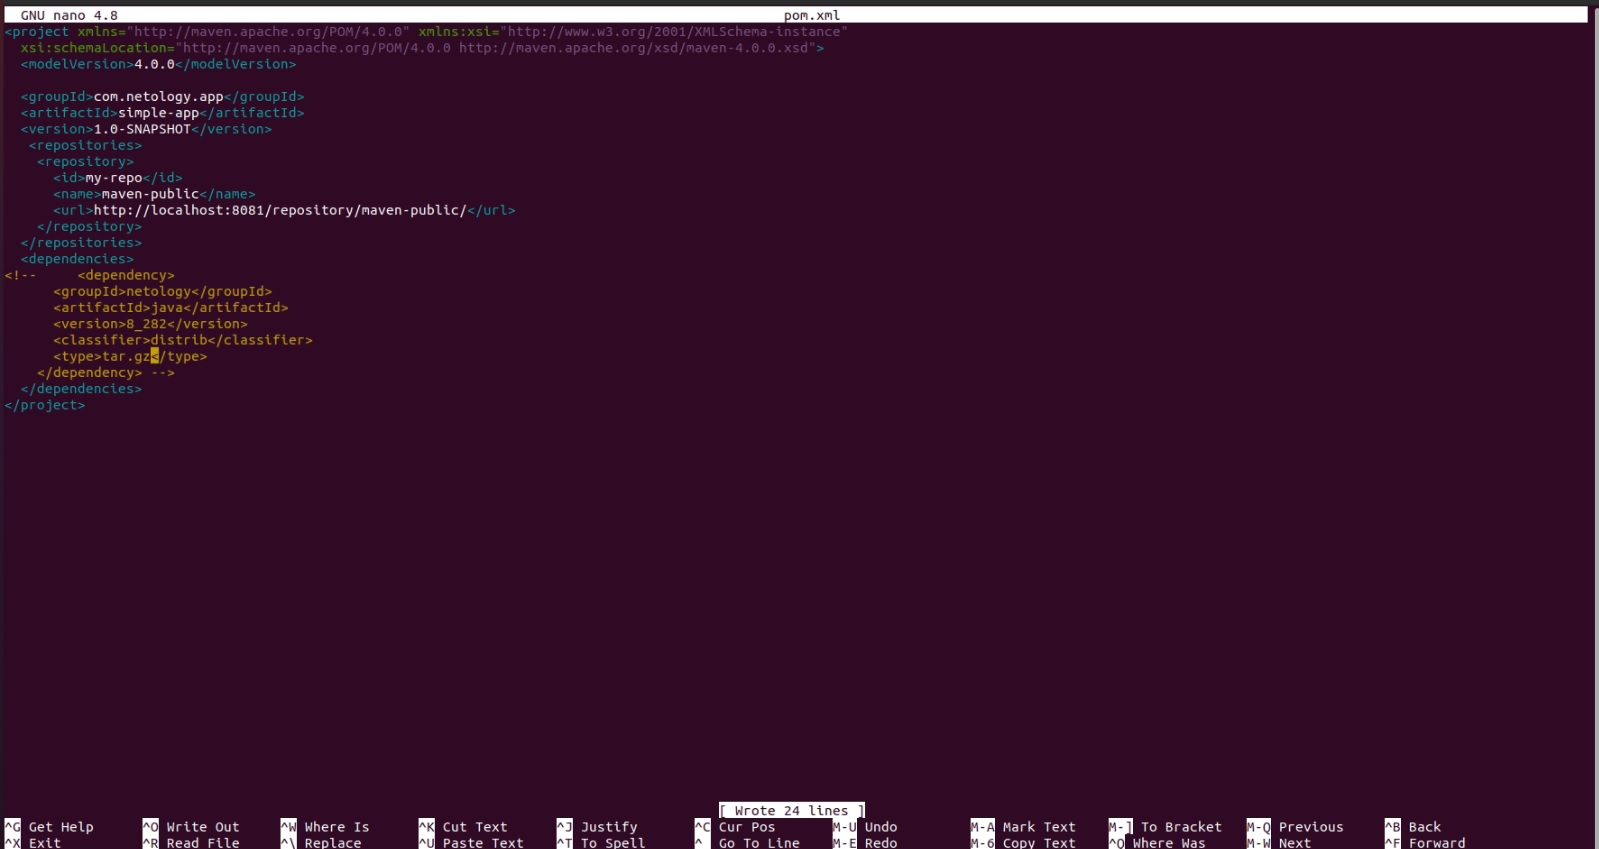
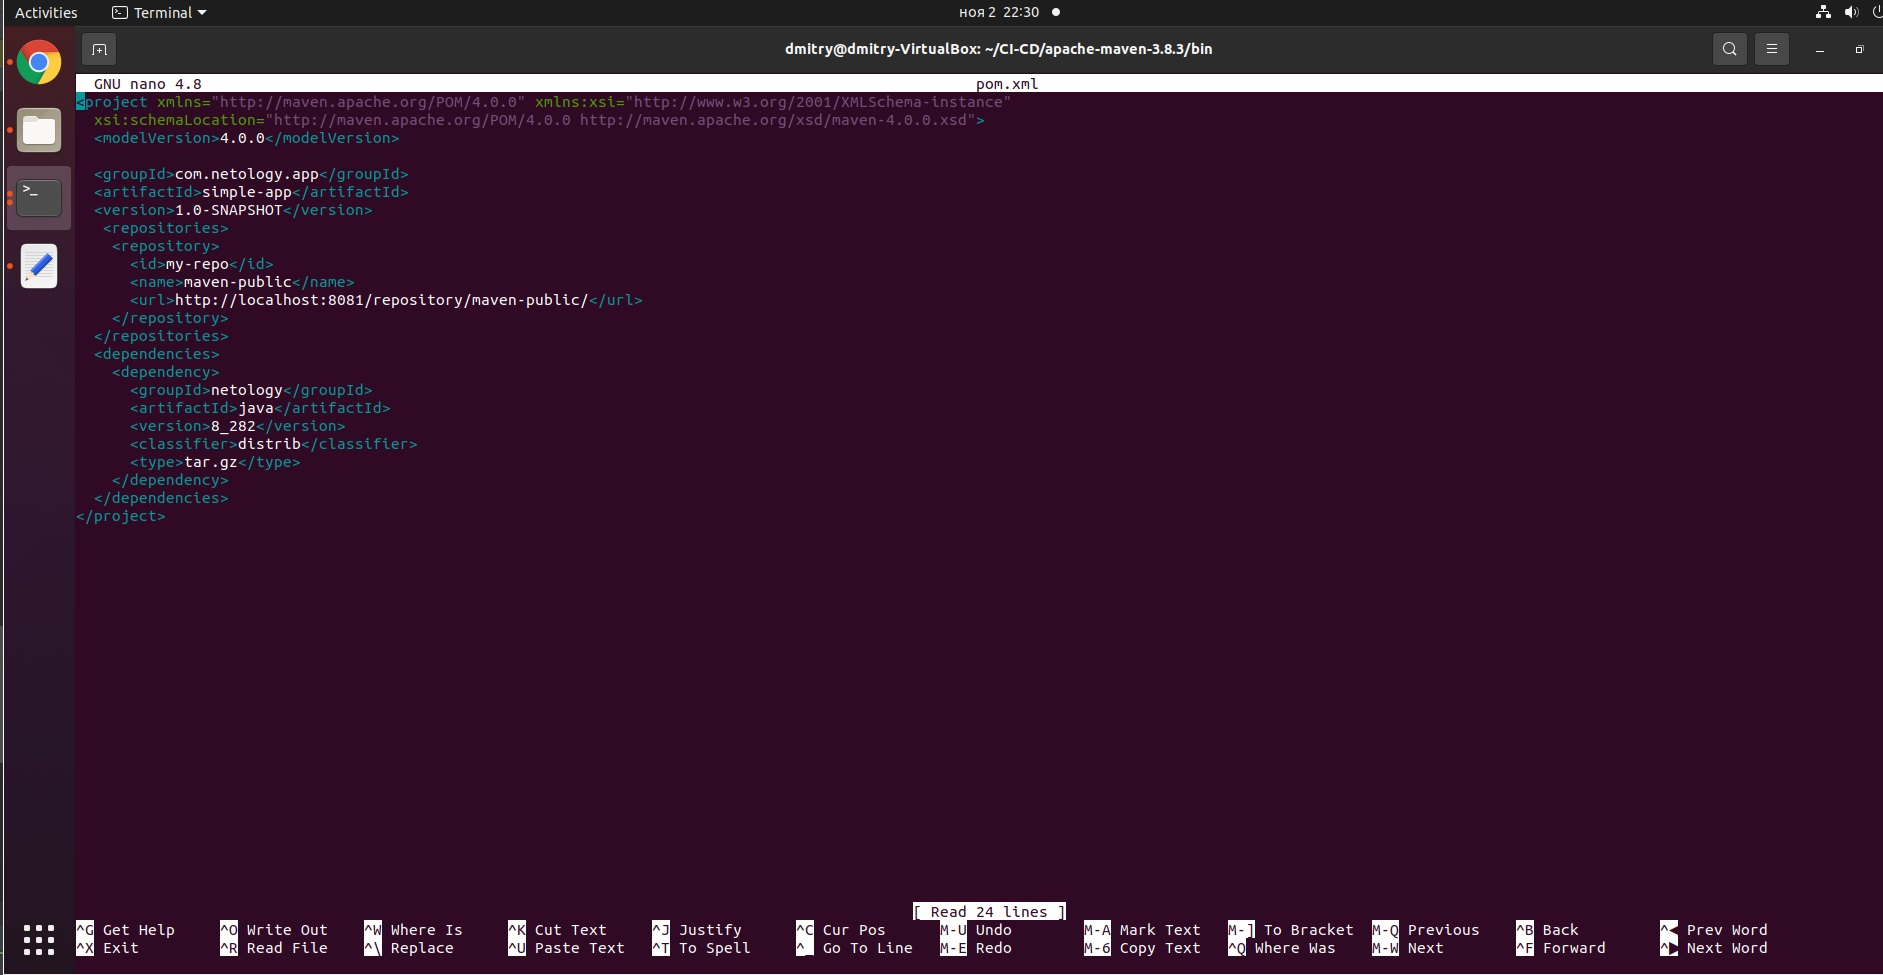
m2 ls v2

Changed region(s): [[0.0, 0.0, 1.0, 1.0], [0.0, 0.9187, 0.95, 1.0]]

diff --git a/Netology dz/CI, мониторинг и управление конфигурациями/Homework for the lesson 09.02 CI  CD/Homework for the lesson 09.02 CI  CD.md b/Netology dz/CI, мониторинг и управление конфигурациями/Homework for the lesson 09.02 CI  CD/Homework for the lesson 09.02 CI  CD.md
@@ -95,7 +95,7 @@
 <project xmlns="http://maven.apache.org/POM/4.0.0" xmlns:xsi="http://www.w3.org/2001/XMLSchema-instance"
   xsi:schemaLocation="http://maven.apache.org/POM/4.0.0 http://maven.apache.org/xsd/maven-4.0.0.xsd">
   <modelVersion>4.0.0</modelVersion>
- 
+
   <groupId>com.netology.app</groupId>
   <artifactId>simple-app</artifactId>
   <version>1.0-SNAPSHOT</version>
@@ -107,13 +107,13 @@
     </repository>
   </repositories>
   <dependencies>
-<!--     <dependency>
+    <dependency>
       <groupId>netology</groupId>
       <artifactId>java</artifactId>
       <version>8_282</version>
       <classifier>distrib</classifier>
       <type>tar.gz</type>
-    </dependency> -->
+    </dependency>
   </dependencies>
 </project>
 ````
